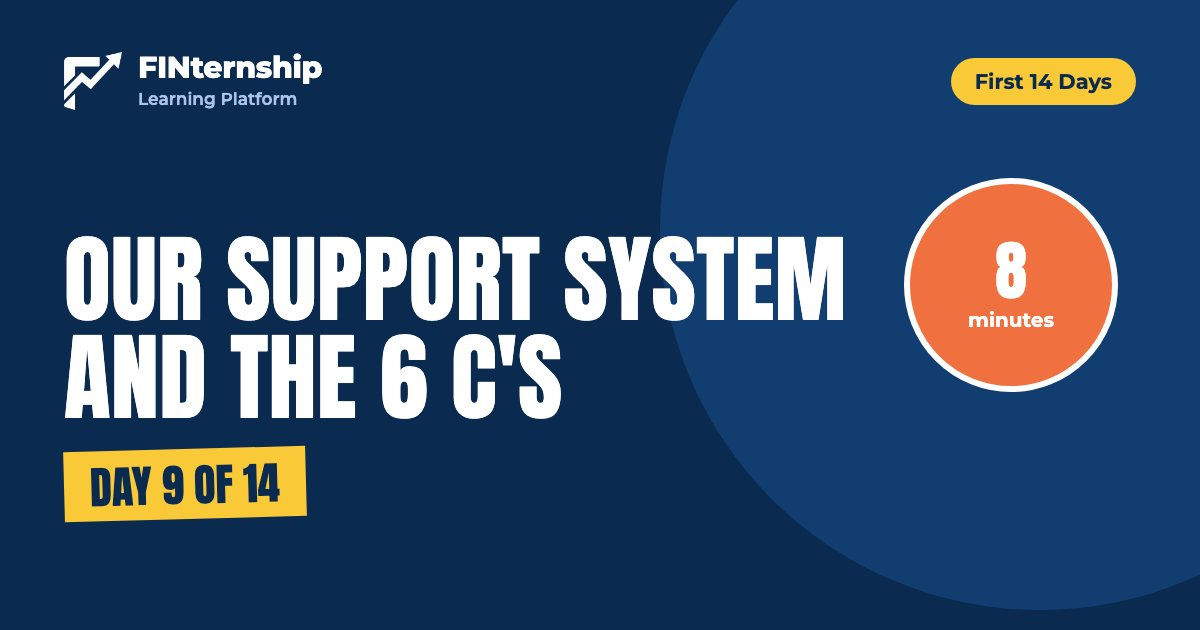
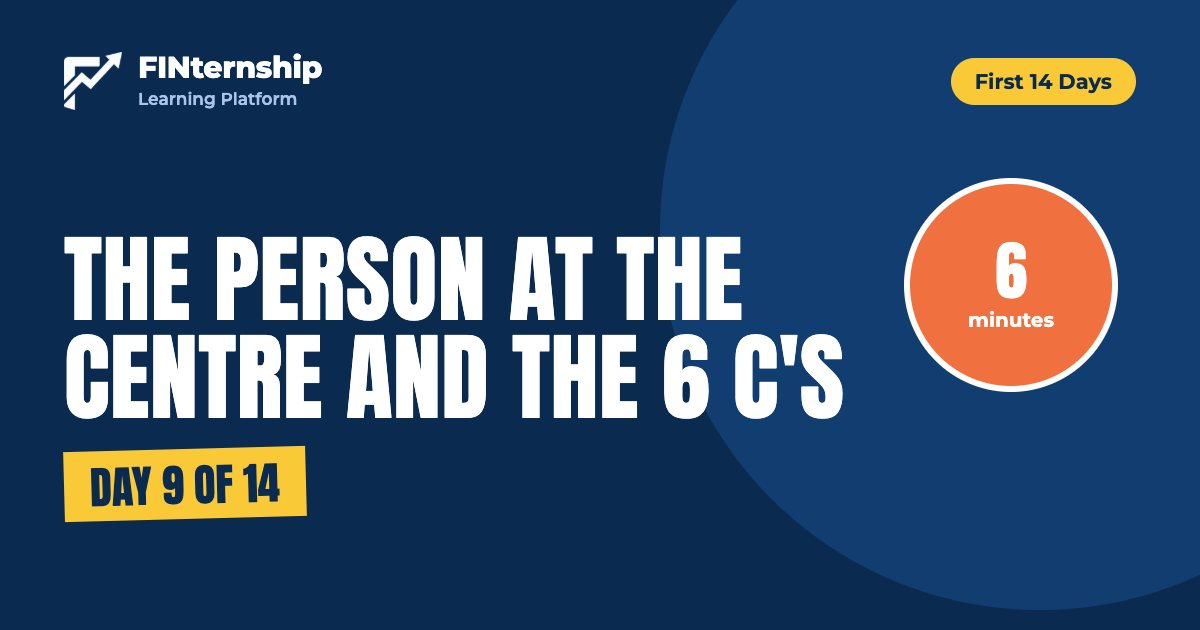
improve: First 14 Days Day 8 now shows the support system (Tripod Support System and the 6-tier power pyramid) after Systems vs culture, and Day 9 opens on the person at the centre and the 6 C's
Day 8 also keeps the admin's saved wording for the lead line (ads specialists,
telemarketers and AI appointment setters). Reading times 10 and 6 minutes;
search index and link cards regenerated.

Changed region(s): [[0.0308, 0.3619, 0.7092, 0.6635], [0.8325, 0.3921, 0.8633, 0.4222]]

diff --git a/src/features/global-search/headingIndex.ts b/src/features/global-search/headingIndex.ts
@@ -46,8 +46,8 @@ export const HEADING_INDEX: HeadingRow[] = [["f14",1,2,"How these 14 days work",
 ["f14",8,2,"Systems vs culture","systems-vs-culture"],
 ["f14",8,3,"What this means for your day","what-this-means-for-your-day"],
 ["f14",8,3,"Why I built it this way","why-i-built-it-this-way"],
+["f14",8,2,"What the system looks like","what-the-system-looks-like"],
 ["f14",8,2,"What to ask any agency, including us","what-to-ask-any-agency-including-us"],
-["f14",9,2,"What the system looks like","what-the-system-looks-like"],
 ["f14",9,2,"The person at the centre","the-person-at-the-centre"],
 ["f14",9,3,"Building an elite team","building-an-elite-team"],
 ["f14",9,3,"What you get when you pass the test","what-you-get-when-you-pass-the-test"],

diff --git a/src/features/first-14-days/summaries.ts b/src/features/first-14-days/summaries.ts
@@ -78,7 +78,7 @@ export const DAY_SUMMARIES: DaySummary[] = [
     week: 2,
     dayInWeek: 1,
     title: "Why the agency you join matters",
-    duration: 8,
+    duration: 10,
     bigIdea:
       "Do you want to spend the next two years struggling to build a business from scratch, or do you want to plug into a machine that's already working?",
   },
@@ -86,8 +86,8 @@ export const DAY_SUMMARIES: DaySummary[] = [
     dayNumber: 9,
     week: 2,
     dayInWeek: 2,
-    title: "Our support system and the 6 C's",
-    duration: 8,
+    title: "The person at the centre and the 6 C's",
+    duration: 6,
     bigIdea:
       "I'm not looking for people who need to be pushed. I'm looking for people who need to be guided.",
   },

diff --git a/docs/first-14-days/week-2/day-08.md b/docs/first-14-days/week-2/day-08.md
@@ -10,7 +10,7 @@ primary_sources:
   - "[[../../finternship-orientation/04-module-4---your-unfair-advantage/02-lesson-1what-most-agencies-wont-tell-you-about]]"
   - "[[../../finternship-orientation/04-module-4---your-unfair-advantage/04-lesson-3-systems-vs-culture]]"
   - "[[../../finternship-orientation/04-module-4---your-unfair-advantage/06-lesson-5-tss-the-6-tier-power-pyramid]]"
-duration_minutes: 8
+duration_minutes: 10
 tags: [first-14-days, week-2, prospect, agency-choice, fit-test, tss, leo-voice]
 ---
 
@@ -96,7 +96,7 @@ At a typical agency, they hand you a list of your friends and family, maybe thro
 
 I've watched talented people burn through thousands of dollars on garbage leads and blame themselves when nothing converted. The system was rigged against them from the start.
 
-With us, our in-house telemarketers and appointment setters book 3 to 5 qualified meetings for you every week. They are people who have already asked about financial planning and are ready to have a conversation.
+With us, our in-house ads specialists, telemarketers and AI appointment setters book 3 to 5 qualified meetings for you every week.
 
 You don't chase leads. You serve them.
 
@@ -157,6 +157,49 @@ Culture is fragile. It depends on moods, relationships, and whether the team lea
 Systems get stronger under pressure. They work no matter who's having a bad day, and they keep working as you grow.
 
 That's why I've spent hundreds of thousands of dollars and countless hours building infrastructure instead of throwing pizza parties.
+
+## What the system looks like
+
+So what does that infrastructure look like? Here is what we've built around you. We call it the Tripod Support System, or TSS.
+
+```layers
+title: Tripod support | system
+art: /first-14-days/diagrams/tss.webp
+You | time goes to clients, not infrastructure
+Client acquisition | paid ads, funnels, appointment setters, cold scripts || Talent acquisition | recruitment pipeline, team building when ready || Nurturing | iSmart CRM, follow-ups, reviews, referrals
+Foundation | training, value-adding, 1-1 coaching
+```
+
+When I started, none of this existed. As I told you on Day 1, I wrote my own scripts, made my own templates and hired my own designers. TSS is the system I had to build for myself, so you can start with it on day one.
+
+The first leg is finding clients. We subsidise your ads on Facebook, Instagram and Google, and our appointment setters book qualified leads straight into your calendar. If you'd rather go cold, you get scripts we've tested on hundreds of real calls, LinkedIn outreach, and lead magnets like policy reviews, BTO calculators and tax relief guides that give people a reason to meet you.
+
+The second leg is looking after the clients you have. They all sit in the iSmart CRM, which sends your follow-ups and reminds you of birthdays and anniversaries. Review meetings and referral scripts do the rest.
+
+The third leg is building a team. You won't need it for a while, but when you're ready to lead, the recruitment pipeline is already running.
+
+All three legs stand on the same base: training, value-adding and 1-1 coaching.
+
+Behind TSS is the 6-tier power pyramid. These are the layers of support behind you in every meeting you run, and each one fixes something that makes advisors give up.
+
+```pyramid
+title: The 6-tier | power pyramid
+art: /first-14-days/diagrams/pyramid.webp
+You | hunger, discipline, follow-through
+Company (AIA) | EPS, career benefit, products, brand, claims
+District (WFG) | ad subsidy, events, roadshows
+Team | mentor, VA ops, telemarketer, appointment setter
+Infrastructure | Lark DB, SOPs, objection library, chatbots
+Frontline tools | TWC presenter, DBI calc, retirement calc
+Post-sale | renewals, referrals, updates, community
+```
+
+1. Company (AIA): A lot of advisors feel their company doesn't back them up. AIA gives you the EPS allowance, Career Benefit (1.5x in years 2 to 6) and APF from year 7. You can offer hospitalisation, high-net-worth and corporate plans, AIA approves over $1B in claims a year, and it pays for half your ads.
+2. District (WFG): Some districts spend their budget on rent instead of leads. WFG adds its own ad subsidy on top of AIA's, and runs corporate talks, roadshows and overseas trips.
+3. Team: Doing ops, sales and marketing alone wears people out fast. You get weekly 1-1s, VAs to handle the admin, a graphic designer, a content writer, an appointment setter, a telemarketer and an in-house web developer.
+4. Infrastructure: Nobody should have to work out every objection from scratch. Our Lark database is searchable and holds 34 objections with 43 responses, along with our SOPs and chatbots.
+5. Frontline tools: When a client asks a question mid-meeting, the answer should already be on your screen. That's what the TWC presenter and the DBI adequacy, retirement and welcome-bonus calculators are for.
+6. Post-sale: A client who hasn't heard from you in two years forgets you exist. The onboarding kit, monthly market updates, blog content, Telegram communities and expense tracker keep you in their life after the sale.
 
 ## What to ask any agency, including us
 

diff --git a/docs/first-14-days/week-2/day-09.md b/docs/first-14-days/week-2/day-09.md
@@ -1,62 +1,19 @@
 ---
 week: 2
 day: 9
-title: "Our support system and the 6 C's"
+title: "The person at the centre and the 6 C's"
 big_idea: "I'm not looking for people who need to be pushed. I'm looking for people who need to be guided."
 author: "Leo Tan"
 primary_sources:
   - "[[../../explorer/_source-articles/module-1-the-perfect-business]]"
   - "[[../../explorer/_source-articles/financial-iq-masterclass-slides]]"
-duration_minutes: 8
+duration_minutes: 6
 tags: [first-14-days, week-2, prospect, traits, self-assessment, 6-cs, leo-voice]
 ---
 
-## What the system looks like
-
-Yesterday you saw why the agency matters. Now let me show you what we've built around you. We call it the Tripod Support System, or TSS.
-
-```layers
-title: Tripod support | system
-art: /first-14-days/diagrams/tss.webp
-You | time goes to clients, not infrastructure
-Client acquisition | paid ads, funnels, appointment setters, cold scripts || Talent acquisition | recruitment pipeline, team building when ready || Nurturing | iSmart CRM, follow-ups, reviews, referrals
-Foundation | training, value-adding, 1-1 coaching
-```
-
-When I started, none of this existed. As I told you on Day 1, I wrote my own scripts, made my own templates and hired my own designers. TSS is the system I had to build for myself, so you can start with it on day one.
-
-The first leg is finding clients. We subsidise your ads on Facebook, Instagram and Google, and our appointment setters book qualified leads straight into your calendar. If you'd rather go cold, you get scripts we've tested on hundreds of real calls, LinkedIn outreach, and lead magnets like policy reviews, BTO calculators and tax relief guides that give people a reason to meet you.
-
-The second leg is looking after the clients you have. They all sit in the iSmart CRM, which sends your follow-ups and reminds you of birthdays and anniversaries. Review meetings and referral scripts do the rest.
-
-The third leg is building a team. You won't need it for a while, but when you're ready to lead, the recruitment pipeline is already running.
-
-All three legs stand on the same base: training, value-adding and 1-1 coaching.
-
-Behind TSS is the 6-tier power pyramid. These are the layers of support behind you in every meeting you run, and each one fixes something that makes advisors give up.
-
-```pyramid
-title: The 6-tier | power pyramid
-art: /first-14-days/diagrams/pyramid.webp
-You | hunger, discipline, follow-through
-Company (AIA) | EPS, career benefit, products, brand, claims
-District (WFG) | ad subsidy, events, roadshows
-Team | mentor, VA ops, telemarketer, appointment setter
-Infrastructure | Lark DB, SOPs, objection library, chatbots
-Frontline tools | TWC presenter, DBI calc, retirement calc
-Post-sale | renewals, referrals, updates, community
-```
-
-1. Company (AIA): A lot of advisors feel their company doesn't back them up. AIA gives you the EPS allowance, Career Benefit (1.5x in years 2 to 6) and APF from year 7. You can offer hospitalisation, high-net-worth and corporate plans, AIA approves over $1B in claims a year, and it pays for half your ads.
-2. District (WFG): Some districts spend their budget on rent instead of leads. WFG adds its own ad subsidy on top of AIA's, and runs corporate talks, roadshows and overseas trips.
-3. Team: Doing ops, sales and marketing alone wears people out fast. You get weekly 1-1s, VAs to handle the admin, a graphic designer, a content writer, an appointment setter, a telemarketer and an in-house web developer.
-4. Infrastructure: Nobody should have to work out every objection from scratch. Our Lark database is searchable and holds 34 objections with 43 responses, along with our SOPs and chatbots.
-5. Frontline tools: When a client asks a question mid-meeting, the answer should already be on your screen. That's what the TWC presenter and the DBI adequacy, retirement and welcome-bonus calculators are for.
-6. Post-sale: A client who hasn't heard from you in two years forgets you exist. The onboarding kit, monthly market updates, blog content, Telegram communities and expense tracker keep you in their life after the sale.
-
 ## The person at the centre
 
-That's the system. Before you go further, let me be clear about something: no system, however good, can succeed without the right person at the centre.
+Yesterday you saw the system behind you. Before you go further, let me be clear about something: no system, however good, can succeed without the right person at the centre.
 
 The most important questions aren't about what we can do for you. They're about what you're willing to do for yourself:
 

diff --git a/docs/first-14-days/week-2/README.md b/docs/first-14-days/week-2/README.md
@@ -13,8 +13,8 @@ Week 1 looked at the business model. Week 2 looks at the agency, and at you.
 
 ## The 7 days
 
-- [Day 8: Why the agency you join matters](/learning-track/first-14-days/day/8). The three lies most agencies tell new advisors, and how we do it differently.
-- [Day 9: Our support system and the 6 C's](/learning-track/first-14-days/day/9). The system behind you, and the six traits I look for.
+- [Day 8: Why the agency you join matters](/learning-track/first-14-days/day/8). The three lies most agencies tell new advisors, how we do it differently, and the support system behind you.
+- [Day 9: The person at the centre and the 6 C's](/learning-track/first-14-days/day/9). Why the system needs the right person, and the six traits I look for.
 - [Day 10: Getting clients without relying on friends](/learning-track/first-14-days/day/10). Your warm market gets you started. The cold market is where you grow.
 - [Day 11: No experience, and not an extrovert](/learning-track/first-14-days/day/11). I started from zero, with a stammer.
 - [Day 12: Limited time, office size and product range](/learning-track/first-14-days/day/12). How I built the business on 2 hours a day during GEP.
